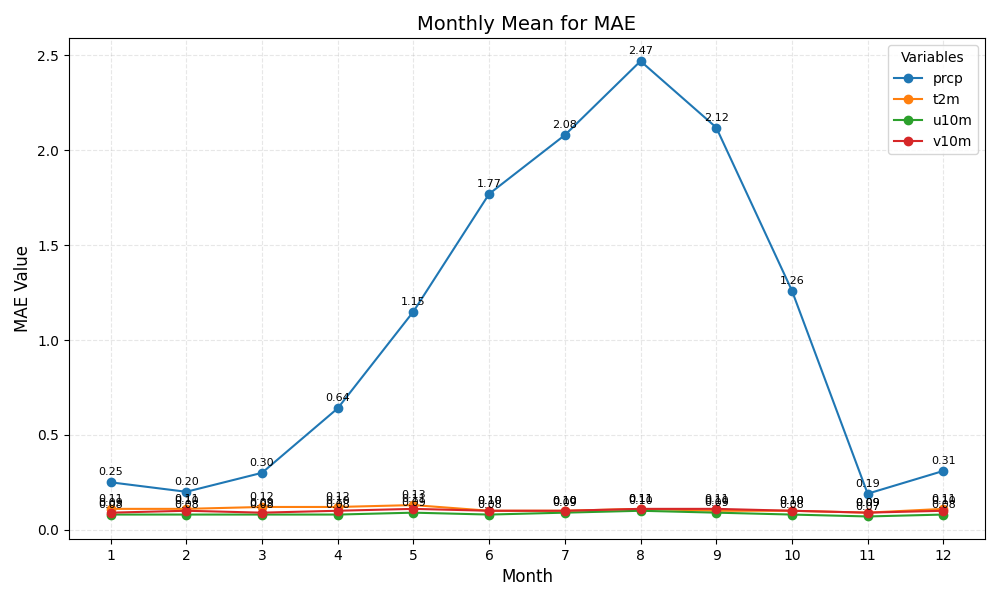
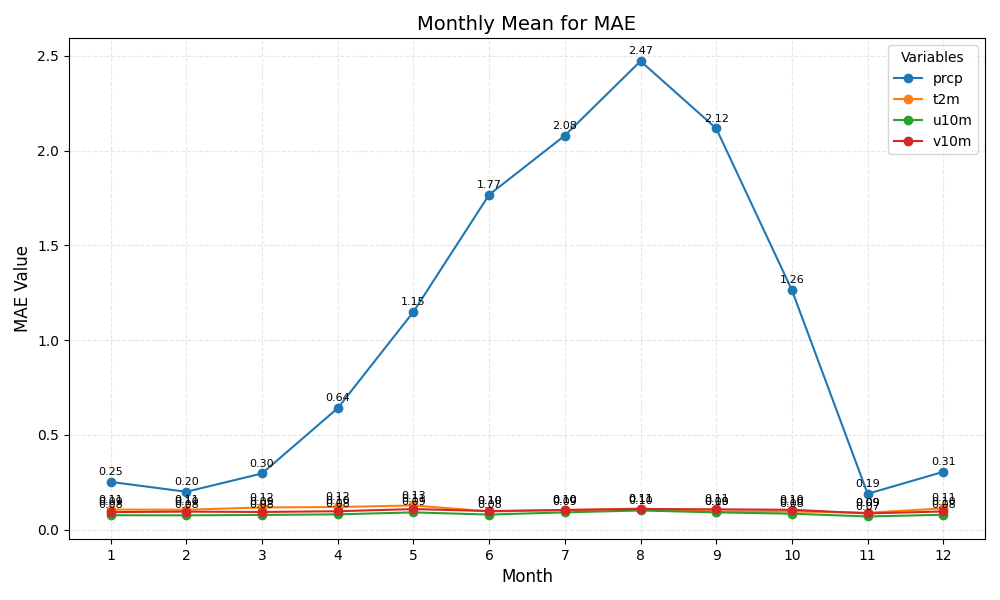
Add refresh.zsh to refresh all tables and plots under docs/experiments/.

diff --git a/corrdiff_plotgen.py b/corrdiff_plotgen.py
@@ -84,15 +84,21 @@ def save_tables_and_plots(ds_mean, ds_group_by_month, output_path, number_format
 
 
 # Model processing functions
-def process_model(metrics, spatial_error, truth_flat, pred_flat, output_path):
+def process_model(in_dir, out_dir, label, n_ensemble, masked):
     """
     Process a model, generate plots, and save metrics.
     """
+    nc_file = os.path.join(in_dir, "netcdf", f"output_0_{label}.nc")
+    metrics, spatial_error, truth_flat, pred_flat = score_samples(nc_file, n_ensemble, masked)
+    output_path = ensure_directory_exists(out_dir, label)
+
     ph.plot_monthly_error(spatial_error, output_path)
     ph.plot_pdf(truth_flat, pred_flat, output_path)
     metric_mean = metrics.mean(dim="time")
     metrics_grouped = metrics.groupby("time.month").mean(dim="time")
     save_tables_and_plots(metric_mean, metrics_grouped, output_path)
+
+    return metrics
 
 
 def compare_models(metrics_all, metrics_reg, output_path):
@@ -108,21 +114,15 @@ def compare_models(metrics_all, metrics_reg, output_path):
 
 
 # Main workflow
-def process_models(in_dir, out_dir, n_ensemble):
+def process_models(in_dir, out_dir, n_ensemble, masked):
     """
     Process models and generate results.
     """
     # Process regression + diffusion model
-    nc_all = os.path.join(in_dir, "netcdf", "output_0_all.nc")
-    metrics_all, spatial_error, truth_flat, pred_flat = score_samples(nc_all, n_ensemble)
-    process_model(metrics_all, spatial_error, truth_flat, pred_flat,
-                  ensure_directory_exists(out_dir, "all"))
+    metrics_all = process_model(in_dir, out_dir, "all", n_ensemble, masked)
 
     # Process regression-only model
-    nc_reg = os.path.join(in_dir, "netcdf", "output_0_reg.nc")
-    metrics_reg, spatial_error, truth_flat, pred_flat = score_samples(nc_reg, n_ensemble)
-    process_model(metrics_reg, spatial_error, truth_flat, pred_flat,
-                  ensure_directory_exists(out_dir, "reg"))
+    metrics_reg = process_model(in_dir, out_dir, "reg", n_ensemble, masked)
 
     # Compare models
     compare_models(metrics_all, metrics_reg, ensure_directory_exists(out_dir, "minus_reg"))
@@ -136,10 +136,16 @@ def main():
     parser.add_argument("in_dir", type=str, help="Folder to read the NetCDF files and config.")
     parser.add_argument("out_dir", type=str, help="Folder to save the plots and tables.")
     parser.add_argument("--n-ensemble", type=int, default=1, help="Number of ensemble members.")
+    parser.add_argument("--masked", type=str, default='yes', help="Whether to apply landmask")
     args = parser.parse_args()
 
+    # Some Python argument parsers, such as argparse, automatically treat boolean flags as True
+    # if they are present, even if the value is explicitly set to False.
+    masked = True if args.masked.lower() == 'yes' else False
+    print(f'masked={masked}')
+
     ensure_directory_exists(args.out_dir)
-    process_models(args.in_dir, args.out_dir, args.n_ensemble)
+    process_models(args.in_dir, args.out_dir, args.n_ensemble, masked)
 
     # Process Hydra config
     config = os.path.join(args.in_dir, "hydra", "overrides.yaml")

diff --git a/score_samples_v2.py b/score_samples_v2.py
@@ -9,7 +9,6 @@ try:
 except ImportError:
     raise ImportError("xskillscore not installed. Try `pip install xskillscore`")
 
-APPLY_LANDMASK = False # Whether to apply the landmask to the data
 LANDMASK_NC = "./data/wrf_208x208_grid_coords.nc" # Path to the landmask NetCDF file
 VAR_MAPPING ={
     "precipitation": "prcp",
@@ -32,7 +31,7 @@ def apply_landmask(truth, pred):
     return truth, pred
 
 
-def open_samples(f):
+def open_samples(f, masked):
     """
     Open prediction and truth samples from a dataset file.
 
@@ -52,7 +51,7 @@ def open_samples(f):
     truth = truth.set_coords(["lon", "lat"])
     pred = pred.set_coords(["lon", "lat"])
 
-    if not APPLY_LANDMASK:
+    if not masked:
         return truth, pred, root
 
     truth, pred = apply_landmask(truth, pred)
@@ -115,8 +114,8 @@ def get_flat(truth, pred):
     return combined_truth, combined_pred
 
 
-def process_sample(index, filepath, n_ensemble):
-    truth, pred, _ = open_samples(filepath)
+def process_sample(index, filepath, n_ensemble, masked):
+    truth, pred, _ = open_samples(filepath, masked)
     truth = truth.isel(time=index).load()
     if n_ensemble > 0:
         pred = pred.isel(time=index, ensemble=slice(0, n_ensemble))
@@ -133,15 +132,15 @@ def process_sample(index, filepath, n_ensemble):
     return result
 
 
-def score_samples(filepath, n_ensemble=1):
-    truth, _, _ = open_samples(filepath)
+def score_samples(filepath, n_ensemble=1, masked=False):
+    truth, _, _ = open_samples(filepath, masked)
 
     with multiprocessing.Pool(32) as pool:
         results = []
         for result in tqdm.tqdm(
             pool.imap(
                 partial(process_sample,
-                        filepath=filepath, n_ensemble=n_ensemble),
+                        filepath=filepath, n_ensemble=n_ensemble, masked=masked),
                 range(truth.sizes["time"]),
             ),
             total=truth.sizes["time"],

diff --git a/plot_helpers.py b/plot_helpers.py
@@ -41,7 +41,7 @@ def plot_metrics(ds, output_path, number_format):
 def plot_monthly_metrics(ds, metric, output_path, number_format):
     _, ax = plt.subplots(figsize=(10, 6))
 
-    df_grouped = ds.to_dataframe().round(2)
+    df_grouped = ds.to_dataframe()
     for variable in df_grouped.columns:
         ax.plot(df_grouped.index, df_grouped[variable], marker="o", label=variable)
         for x, y in zip(df_grouped.index, df_grouped[variable]):
